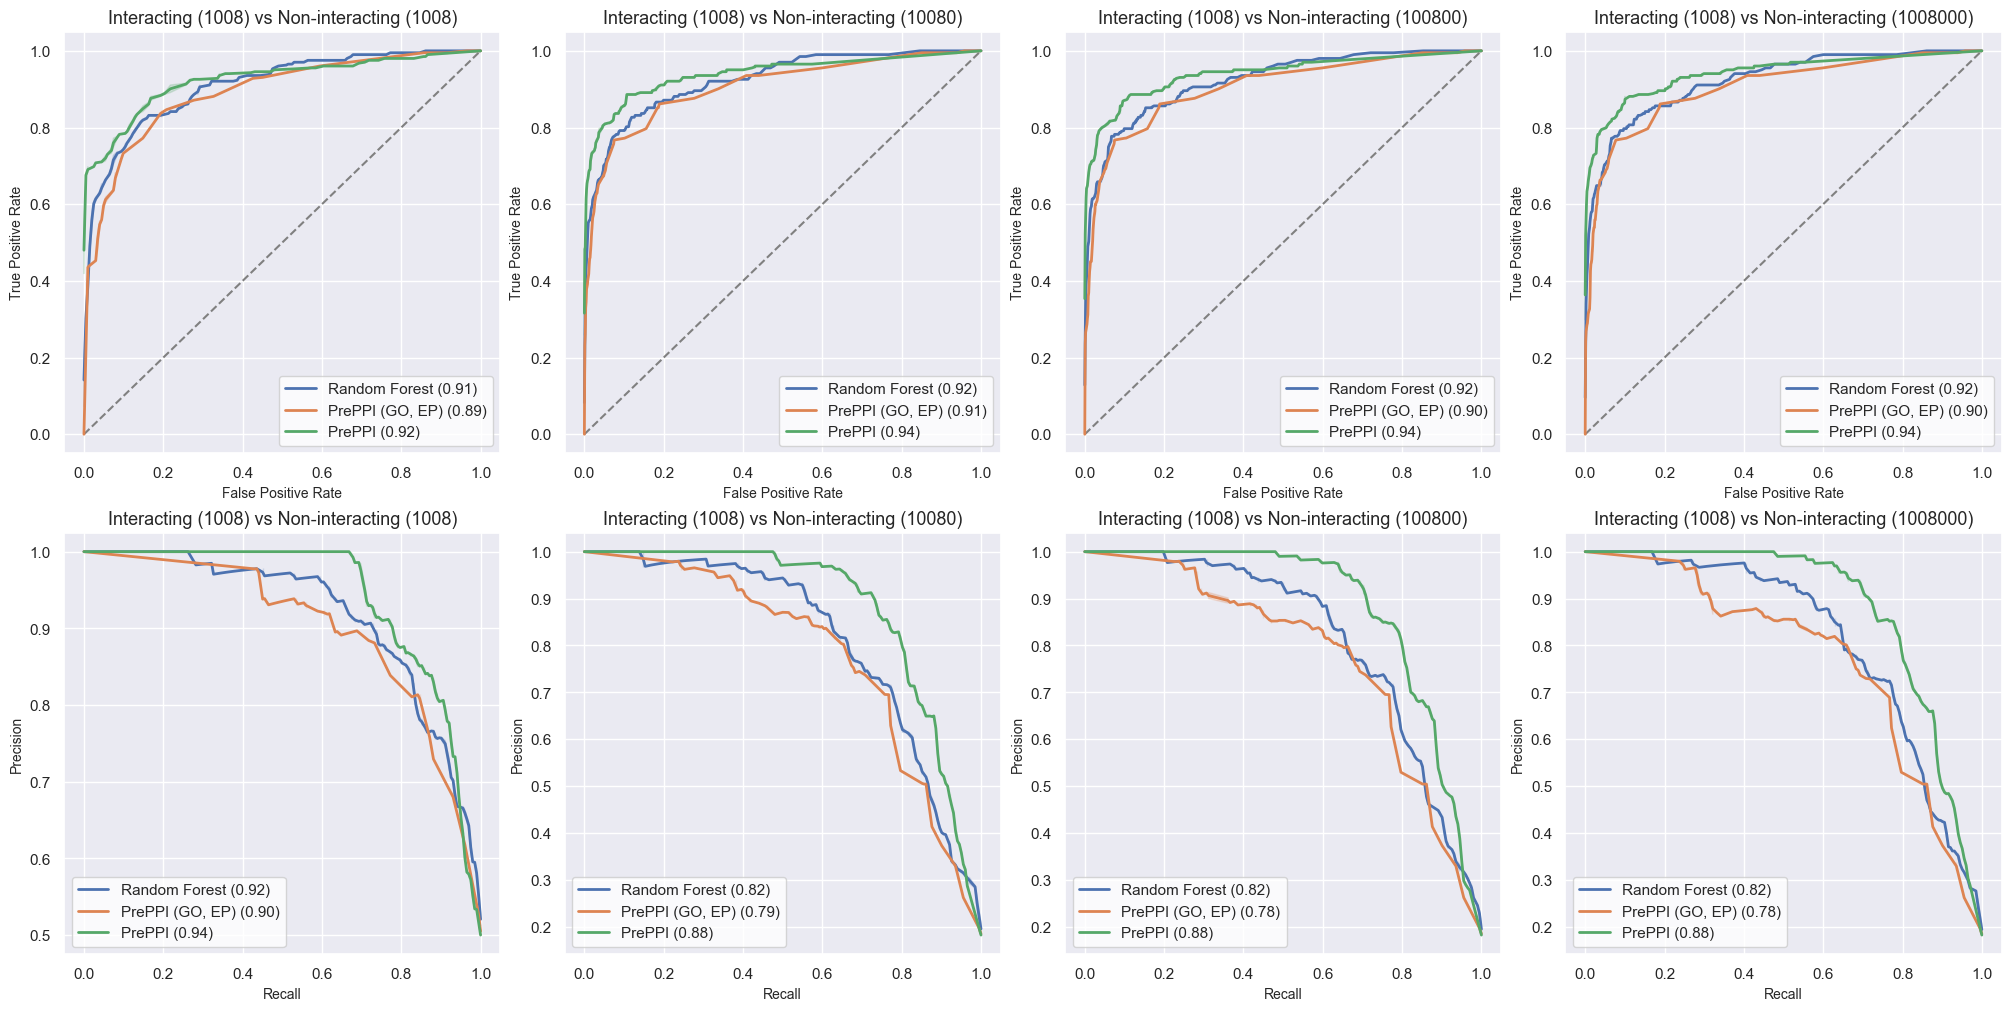
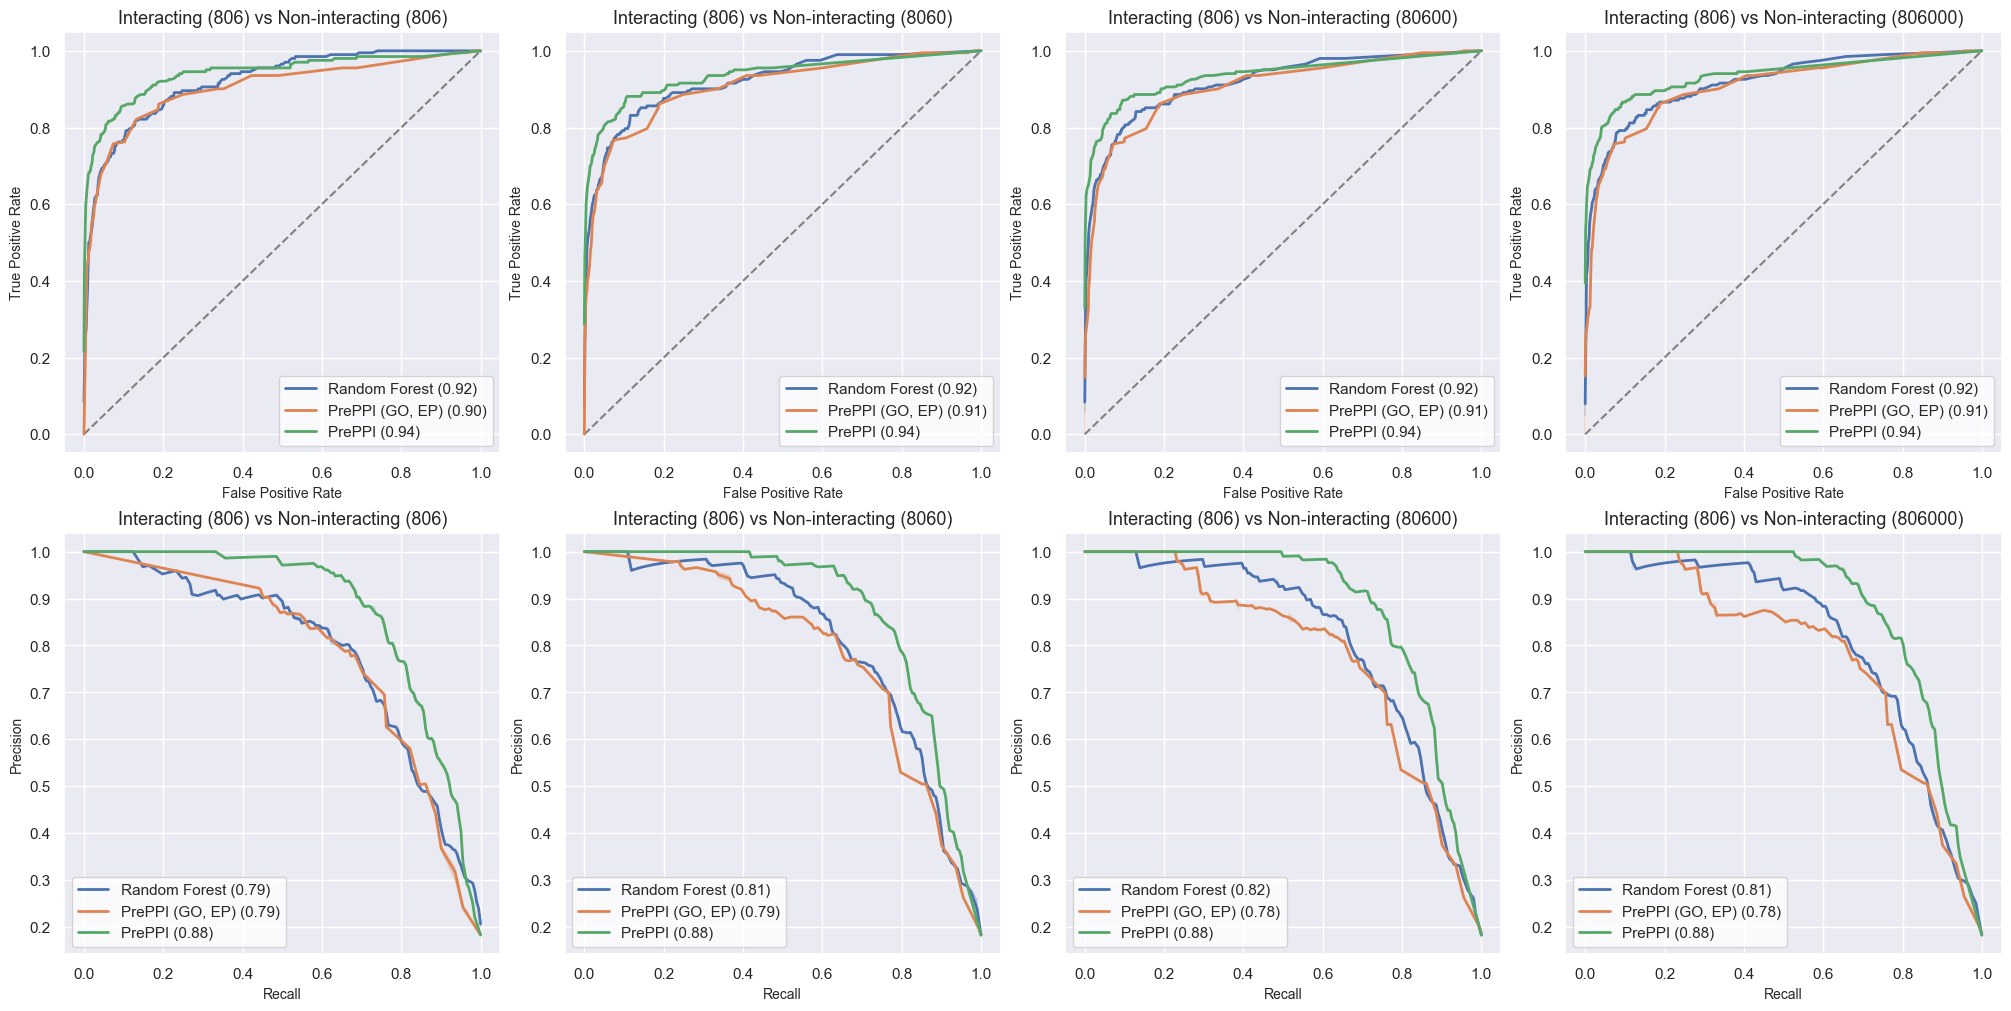
updated code to status-quo, ran RF classifiers

diff --git a/ppi-project/genomic/preppi-ml.py b/ppi-project/genomic/preppi-ml.py
@@ -8,16 +8,18 @@ import pandas as pd
 import numpy as np
 import matplotlib.pyplot as plt
 import seaborn as sns
-from sklearn.model_selection import train_test_split, GridSearchCV
-from sklearn.preprocessing import StandardScaler
+from sklearn.model_selection import train_test_split#, GridSearchCV
+#from sklearn.preprocessing import StandardScaler
 from sklearn.ensemble import RandomForestClassifier
-from sklearn.svm import SVC
-from sklearn.neighbors import KNeighborsClassifier
-from sklearn.naive_bayes import GaussianNB
+#from sklearn.svm import SVC
+#from sklearn.neighbors import KNeighborsClassifier
+#from sklearn.naive_bayes import GaussianNB
 from sklearn.metrics import (
   roc_auc_score, roc_curve, precision_recall_curve, auc
 )
 from xgboost import XGBClassifier
+from imblearn.under_sampling import RandomUnderSampler
+from imblearn.over_sampling import RandomOverSampler
 
 def compute_metrics(y_test, y_prob):
   fpr, tpr, _ = roc_curve(y_test, y_prob)
@@ -148,30 +150,36 @@ def main():
     positives = data[data['label'] == 1]
     negatives = data[data['label'] == 0]
 
-    n_pos = len(positives)
-    n_neg = int(n_pos * ratio)
-
-    if ratio == 1: # no class weighting
-      neg_sample = negatives.sample(n = n_neg, replace = False, random_state = 893)
-      class_weight = 1
-    else: # need class weighting
-      neg_sample = negatives
-      class_weight = n_neg/len(negatives)
-    data_sample = pd.concat([positives, neg_sample])
-
     # train test split
-    X = data_sample[[
+    X = data[[
       'co-expression', 'BP', 'CC', 'MF', 'SM', 'PrP', 'max(SM,PrP)', 
       'PR', 'OR', 'PP', 'GO', 'EP', 'Total'
     ]]
-    y = data_sample['label']
+    y = data['label']
     X_train, X_test, y_train, y_test = train_test_split(
       X, y, test_size = 0.2, stratify = y, random_state = 893
     )
 
+    n_pos = sum(y_train == 1)
+    n_neg = sum(y_train == 0)
+    n_pos_target = n_pos
+    n_neg_target = n_pos * ratio
+    print(f"Interacting: {n_pos_target}, Non-Interacting: {n_neg_target}")
+
+    if n_neg_target < n_neg: # need to remove some negative samples
+      rus = RandomUnderSampler(
+        sampling_strategy = {0: n_neg_target, 1: n_pos_target}, random_state = 893
+      )
+      X_train, y_train = rus.fit_resample(X_train, y_train)
+    else: # need to oversample with replacement
+      ros = RandomOverSampler(
+        sampling_strategy = {0: n_neg_target, 1: n_pos_target}, random_state = 893
+      )
+      X_train, y_train = ros.fit_resample(X_train, y_train)
+
     # partition data sets into 3 groups
     # 1. Co-expression, BP, CC, MF
-    # 2. GO, EP; 3. Total
+    # 2. GO, EP; 3. PrePPI (overall)
     train1, train2, train3 = X_train[['co-expression', 'BP', 'CC', 'MF']], X_train[['GO', 'EP']], X_train[preppi_labels]
     test1, test2, test3 = X_test[['co-expression', 'BP', 'CC', 'MF']], X_test[['GO', 'EP']], X_test[preppi_labels]
     train_test_pairs = {
@@ -182,24 +190,14 @@ def main():
     axes[0, i].plot([0, 1], [0, 1], linestyle = '--', color = 'gray')
 
     for mod, sets in train_test_pairs.items():
-      
-      # Random Forest Classifier (will use for ML subgroup, 6/2)
       print(f"Training on {mod}")
-      metrics_rf = train_rf(sets[0], y_train, sets[1], y_test, class_weight = class_weight)
-      # XGBoost Classifier
-      # print(f"Training on {mod}")
-      # metrics_xgb = train_xgb(sets[0], y_train, sets[1], y_test, class_weight = class_weight)
-
-      '''
-      # train Naive Bayes Classifier
-      print(f"Naive Bayes: {mod}")
-      metrics_nb = train_nb(sets[0], y_train, sets[1], y_test)
-      '''
-
-      # Plot ROC/PR
-      plot_roc_pr(metrics_rf, axes, i, n_pos, n_neg, data_type = mod)
-      # plot_roc_pr(metrics_xgb, axes, i, n_pos, n_neg, data_type = mod)
-      # plot_roc_pr(metrics_nb, axes, i, n_pos, n_neg, data_type = mod, classifier = 'Naive Bayes')
+      classifier_name = 'rf' # 'rf', 'xgb'; change as needed
+      if classifier_name == 'rf':
+        metrics = train_rf(sets[0], y_train, sets[1], y_test)
+        plot_roc_pr(metrics, axes, i, n_pos_target, n_neg_target, data_type = mod)
+      elif classifier_name == 'xgb':
+        metrics = train_xgb(sets[0], y_train, sets[1], y_test)
+        plot_roc_pr(metrics, axes, i, n_pos_target, n_neg_target, data_type = mod)
 
     print("-----------------------------------")
 
